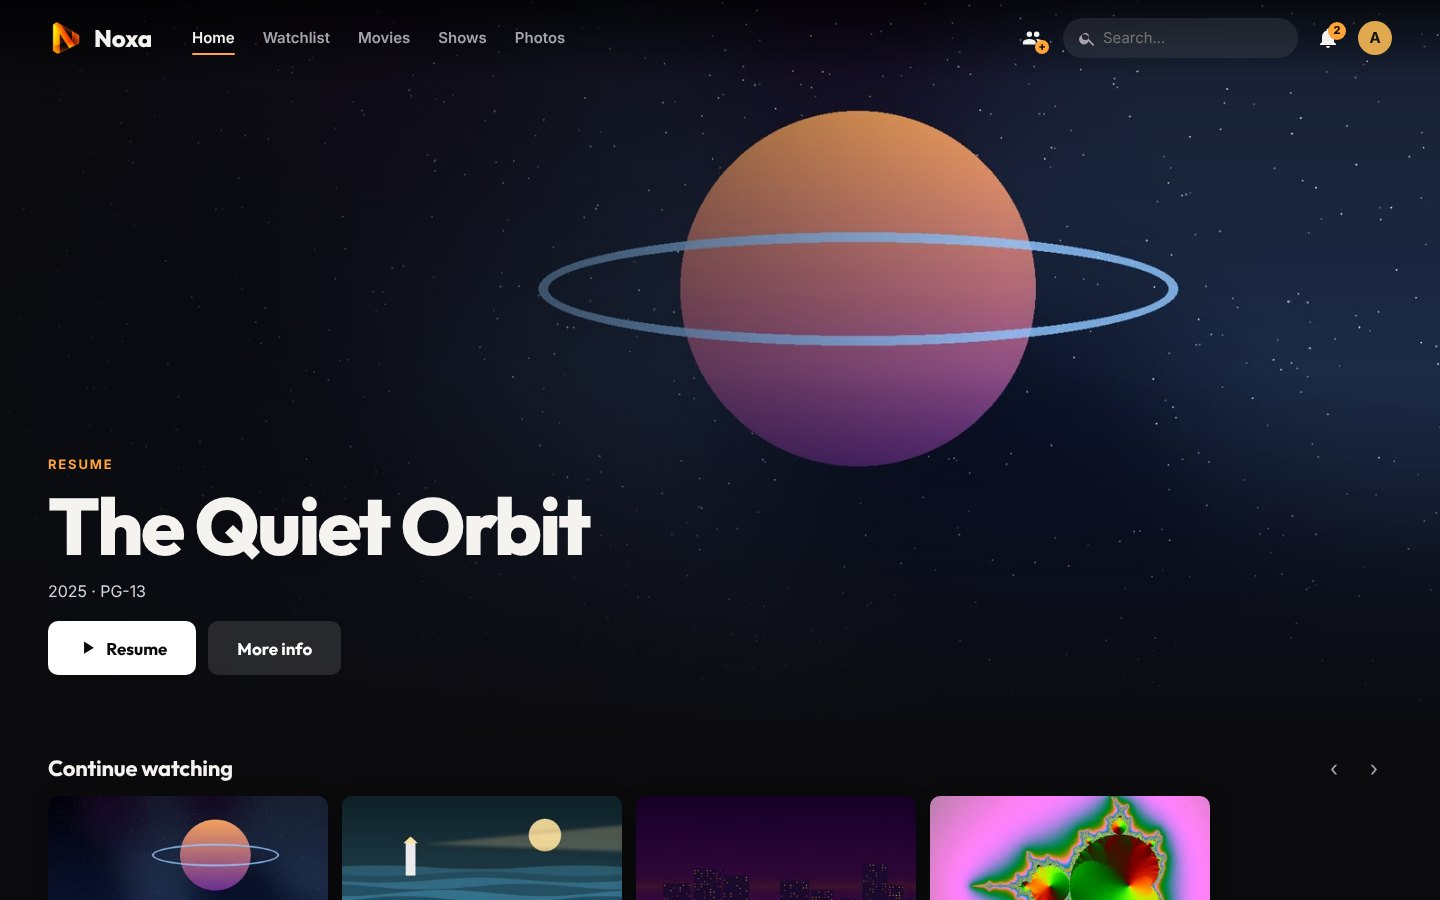
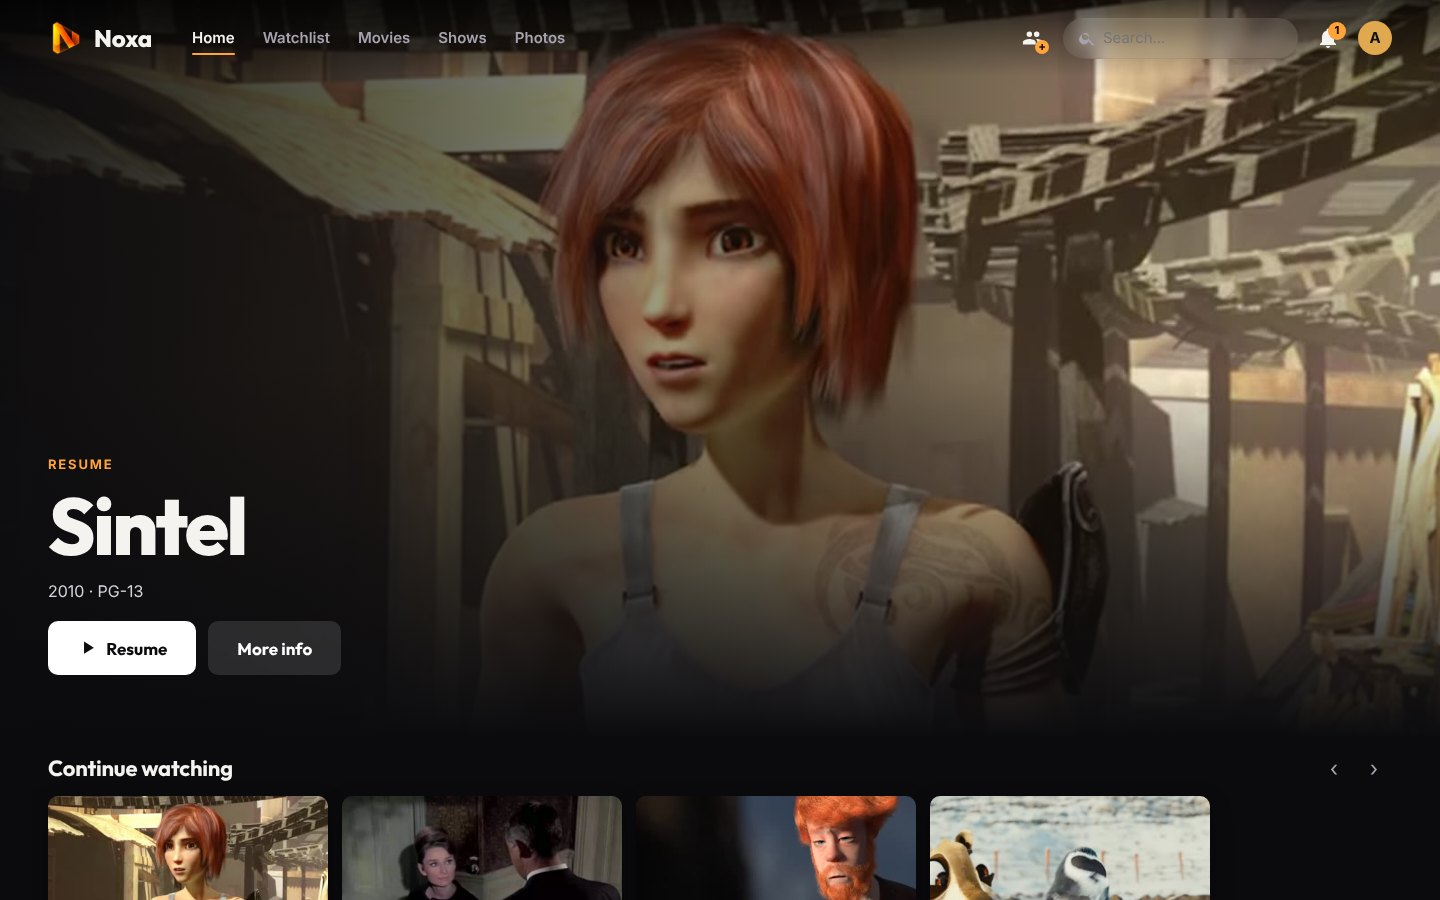
Docs: screenshots with real free films and photos
The documentation screenshots now show real, freely licensed works instead
of generated posters and videos:

- Blender Foundation open movies (Creative Commons): Big Buck Bunny, Sintel,
  Tears of Steel, Elephants Dream, Cosmos Laundromat, Spring, Caminandes
- Public domain films: Night of the Living Dead, Nosferatu, Charade,
  His Girl Friday, The General
- CC0 photos from Wikimedia Commons, in five albums

tools/screenshots/free_library.py builds the library from those downloads
(listed with their licences in free_titles.json): Kodi-style .nfo files,
backdrops taken from the films, Blender films upscaled to 1080p, landscape
artwork turned into 2:3 posters. take.py uses the new titles. The README
credits every work and its licence; docs/development.md explains the steps.

Also fixes the Photos page header, which read "0 photos" at the root of
the Albums tab when the library has only albums: it now shows the number
of albums.

Claude-Session: https://claude.ai/code/session_019WZqhqxppt6MzdJHtpPNrn

diff --git a/static/js/views/photos.js b/static/js/views/photos.js
@@ -106,7 +106,9 @@ async function browse(main, ctx, o) {
       total = r.total;
       start += r.photos.length;
       if (!r.photos.length) total = start;
-      count.textContent = plural(total, '{n} photo', '{n} photos');
+      // root of the Albums tab: no loose photos, so count the albums rather than show "0 photos"
+      if (start === r.photos.length && r.albums.length && !total) count.textContent = plural(r.albums.length, '{n} album', '{n} albums');
+      else count.textContent = plural(total, '{n} photo', '{n} photos');
       addPhotos(r.photos);
       if (!total && !r.albums.length && start === 0) {
         content.replaceChildren(h('div.empty', o.view === 'favorites' ? tr('Aucun favori : l’étoile de la visionneuse ajoute une photo ici.') : tr('Aucune photo ici.')));

diff --git a/static/js/i18n/en.js b/static/js/i18n/en.js
@@ -1293,6 +1293,8 @@ export default {
   "dlna upnp téléviseur smart tv samsung lg sony console xbox ps5 box réseau local serveur multimédia": "dlna upnp tv smart tv samsung lg sony console xbox ps5 box local network media server",
   "{n} photo": "{n} photo",
   "{n} photos": "{n} photos",
+  "{n} album": "{n} album",
+  "{n} albums": "{n} albums",
   "{p1} photos · {p2} albums": "{p1} photos · {p2} albums",
   "Automatique (selon le débit)": "Automatic (based on bandwidth)",
   "Automatique ({q})": "Automatic ({q})",

diff --git a/tools/screenshots/take.py b/tools/screenshots/take.py
@@ -33,9 +33,11 @@ media, out = sys.argv[1], sys.argv[2]
 os.makedirs(out, exist_ok=True)
 work = tempfile.mkdtemp()
 webm = os.path.join(work, "player.webm")
-subprocess.run(["ffmpeg", "-loglevel", "error", "-y", "-f", "lavfi", "-t", "20", "-i",
-                "mandelbrot=s=1280x720:r=24:maxiter=400:start_scale=1.2:end_scale=0.3", "-c:v", "libvpx-vp9",
-                "-b:v", "1M", "-deadline", "realtime", "-cpu-used", "8", webm], check=True)
+# the player screenshot shows a real frame of the film (Chromium here cannot decode H.264: a short VP9 clip)
+PLAYER = "Tears of Steel"
+clip_src = os.path.join(media, "Movies", "Tears of Steel (2012)", "Tears of Steel (2012).mkv")
+subprocess.run(["ffmpeg", "-loglevel", "error", "-y", "-ss", "200", "-t", "20", "-i", clip_src, "-an", "-vf", "scale=1280:-2",
+                "-c:v", "libvpx-vp9", "-b:v", "1500k", "-deadline", "realtime", "-cpu-used", "8", webm], check=True)
 
 ctx = Ctx(os.path.join(work, "data"), STATIC)
 server = Server(("127.0.0.1", 0), make_handler(build_app(ctx)))
@@ -47,7 +49,10 @@ st, r = admin.call("POST", "/api/setup", {"username": "alex", "password": "demo-
                                           "language": "en"}, headers={"X-Setup-Code": ctx.setup_code})
 assert st == 200, r
 libs = {}
-for name, kind, sub in (("Movies", "movie", "Movies"), ("Shows", "show", "Shows"), ("Photos", "photo", "Photos")):
+LIBS = [("Movies", "movie", "Movies"), ("Shows", "show", "Shows")]
+if os.path.isdir(os.path.join(media, "Photos")):
+    LIBS.append(("Photos", "photo", "Photos"))
+for name, kind, sub in LIBS:
     st, r = admin.call("POST", "/api/admin/libraries", {"name": name, "kind": kind, "paths": [os.path.join(media, sub)]})
     assert st == 200, r
     libs[name] = r.get("id") or r.get("library", {}).get("id")
@@ -63,21 +68,21 @@ for name, display in (("sam", "Sam"), ("kids", "Kids")):
 db = ctx.db
 # the scan and the .nfo metadata finish in the background: wait until every demo title is there
 for _ in range(300):
-    if (db.scalar("SELECT COUNT(*) FROM items WHERE type='movie'") >= 12
-            and db.scalar("SELECT COUNT(*) FROM items WHERE type='show' AND title IN "
-                          "('Harbor Lights', 'Signal Lost', 'Kitchen Atlas')") == 3):
+    if (db.scalar("SELECT COUNT(*) FROM items WHERE type='movie'") >= 11
+            and db.scalar("SELECT COUNT(*) FROM items WHERE type='episode'") >= 3
+            and ("Photos" not in libs or db.scalar("SELECT COUNT(*) FROM items WHERE type='photo'") >= 19)):
         break
     time.sleep(1)
 movies = db.all("SELECT id, title, duration_ms FROM items WHERE type='movie' ORDER BY title")
 by_title = {m["title"]: m for m in movies}
-episodes = db.all("SELECT id, title, duration_ms, parent_id FROM items WHERE type='episode' ORDER BY id")
+episodes = db.all("SELECT id, title, duration_ms, parent_id FROM items WHERE type='episode' ORDER BY title")
 shows = db.all("SELECT id, title FROM items WHERE type='show' ORDER BY title")
 show_by_title = {s["title"]: s for s in shows}
 uid = db.scalar("SELECT id FROM users WHERE username='alex'")
 now = int(time.time())
 
 # continue watching: a few movies and an episode in progress
-for title, frac in (("The Quiet Orbit", 0.42), ("Glass Tide", 0.67), ("Velvet Circuit", 0.18)):
+for title, frac in (("Sintel", 0.42), ("Charade", 0.31), ("Cosmos Laundromat", 0.55)):
     m = by_title[title]
     admin.call("POST", "/api/progress", {"id": str(m["id"]), "position": int(m["duration_ms"] * frac),
                                          "duration": m["duration_ms"], "state": "stopped"})
@@ -87,11 +92,11 @@ for e in episodes[:2]:
 e = episodes[2]
 admin.call("POST", "/api/progress", {"id": str(e["id"]), "position": int(e["duration_ms"] * 0.3),
                                      "duration": e["duration_ms"], "state": "stopped"})
-for t in ("Halcyon Drift", "Low Light Requiem", "Paper Lanterns"):
+for t in ("Spring", "Nosferatu", "His Girl Friday"):
     db.run("INSERT OR IGNORE INTO watchlist(user_id, item_id, added_at) VALUES(?,?,?)", (uid, by_title[t]["id"], now))
 db.run("INSERT OR IGNORE INTO watchlist(user_id, item_id, added_at) VALUES(?,?,?)",
-       (uid, show_by_title["Signal Lost"]["id"], now))
-for t, v in (("Northbound Static", 5), ("Salt & Ember", 4), ("Pinewatch", 3)):
+       (uid, show_by_title["Caminandes"]["id"], now))
+for t, v in (("Big Buck Bunny", 5), ("The General", 5), ("Night of the Living Dead", 4)):
     db.run("INSERT OR REPLACE INTO ratings(user_id, item_id, value, updated_at) VALUES(?,?,?,?)",
            (uid, by_title[t]["id"], v, now))
 
@@ -100,8 +105,8 @@ usb = os.path.join(work, "usb-disk")
 os.makedirs(usb)
 st, r = admin.call("POST", "/api/admin/cold/stores", {"kind": "local", "name": "USB disk", "conf": {"path": usb}})
 assert st == 200, r
-admin.call("POST", "/api/admin/cold/archive", {"ids": [by_title[t]["id"] for t in ("Pinewatch", "Paper Lanterns",
-                                                                                   "Seven Summers South")],
+admin.call("POST", "/api/admin/cold/archive", {"ids": [by_title[t]["id"] for t in ("Elephants Dream", "Spring",
+                                                                                   "Big Buck Bunny")],
                                                "store": r["id"]})
 for _ in range(600):
     st, c = admin.call("GET", "/api/admin/cold")
@@ -184,21 +189,22 @@ with sync_playwright() as pw:
     save(page, "home.jpg")
     go(page, f"/#/library/{libs['Movies']}", ".grid .card")
     save(page, "library.jpg")
-    go(page, f"/#/item/{by_title['The Quiet Orbit']['id']}", ".detail-actions", 1200)
+    go(page, f"/#/item/{by_title['Sintel']['id']}", ".detail-actions", 1200)
     save(page, "movie.jpg")
-    go(page, f"/#/item/{show_by_title['Harbor Lights']['id']}", ".episode", 1500)
+    go(page, f"/#/item/{show_by_title['Caminandes']['id']}", ".episode", 1500)
     save(page, "show.jpg", full=True, clip={"x": 0, "y": 0, "width": 1440, "height": 1400})
 
-    go(page, f"/#/play/{by_title['Northbound Static']['id']}", "video", 6000)
+    go(page, f"/#/play/{by_title[PLAYER]['id']}", "video", 6000)
     page.mouse.move(700, 500)
     page.mouse.move(720, 760)
     page.wait_for_timeout(800)
     save(page, "player.jpg")
 
-    go(page, f"/#/library/{libs['Photos']}", None, 1000)
-    page.locator("text=All photos").first.click()
-    settle(page, 1500)
-    save(page, "photos.jpg")
+    if "Photos" in libs:
+        go(page, f"/#/library/{libs['Photos']}", None, 1000)
+        page.locator("text=Albums").first.click()
+        settle(page, 1500)
+        save(page, "photos.jpg")
 
     for name, route, wait in (("settings-dashboard.jpg", "/#/admin/dashboard", 1500),
                               ("settings-libraries.jpg", "/#/admin/libraries", 800),
@@ -240,7 +246,7 @@ with sync_playwright() as pw:
     p2.click("text=Alex")
     p2.wait_for_timeout(800)
     shots = []
-    for route, sel in (("/#/", ".hero-title"), (f"/#/item/{show_by_title['Signal Lost']['id']}", ".episode"),
+    for route, sel in (("/#/", ".hero-title"), (f"/#/item/{by_title['Sintel']['id']}", ".detail-actions"),
                        (f"/#/library/{libs['Movies']}", ".grid .card")):
         go(p2, route, sel, 1200)
         shots.append(Image.open(io.BytesIO(p2.screenshot())).convert("RGB"))

diff --git a/tools/screenshots/free_library.py b/tools/screenshots/free_library.py
@@ -1,0 +1,150 @@
+"""Builds the documentation demo library from free films: Blender Foundation open movies (Creative Commons)
+and public domain classics, downloaded from Wikimedia Commons.
+
+python3 tools/screenshots/free_library.py <downloads_folder> <posters_folder> <library_folder> [<photos_folder>]
+
+- <downloads_folder>: the 480p WebM versions from Wikimedia Commons, named "<file>.webm" as in free_titles.json
+- <posters_folder>: one poster per title, named "<title>.jpg" (or .png)
+- <library_folder>: receives Movies/ and Shows/, laid out like a real library, with Kodi-style .nfo files
+- <photos_folder> (optional): the CC0 photos listed in free_titles.json, named as on Commons; they are copied
+  into Photos/<album>/ and dated (file date) when they were taken, since Commons thumbnails drop the EXIF data
+
+The Blender films are re-encoded to 1080p H.264 (they were made in HD; the 480p copies only save download time).
+Classics stay as they are. Backdrops are taken from a frame of each film.
+"""
+import json
+import os
+import shutil
+import time
+import subprocess
+import sys
+from xml.sax.saxutils import escape
+
+HERE = os.path.dirname(os.path.abspath(__file__))
+
+
+def ff(*args):
+    subprocess.run(["ffmpeg", "-loglevel", "error", "-y", *args], check=True)
+
+
+def duration(path):
+    out = subprocess.run(["ffprobe", "-v", "error", "-show_entries", "format=duration", "-of", "csv=p=0", path],
+                         capture_output=True, text=True, check=True).stdout
+    return float(out.strip() or 0)
+
+
+def video(src, dst, upscale):
+    if os.path.exists(dst):
+        return
+    tmp = dst + ".part.mkv"
+    if upscale:
+        ff("-i", src, "-map", "0:v:0", "-map", "0:a?", "-vf", "scale=-2:1080:flags=lanczos,format=yuv420p",
+           "-c:v", "libx264", "-preset", "veryfast", "-crf", "26", "-c:a", "aac", "-b:a", "160k",
+           "-metadata:s:a", "title=", tmp)  # the source title ("AC3 5.1 @ 640 Kbps") no longer matches
+    else:
+        ff("-i", src, "-map", "0", "-c", "copy", tmp)
+    os.replace(tmp, dst)
+
+
+def backdrop(src, dst, at):
+    if not os.path.exists(dst):
+        ff("-ss", f"{at:.1f}", "-i", src, "-frames:v", "1", "-vf", "scale=1920:-2:flags=lanczos", "-q:v", "3", dst)
+
+
+def landscape(path):
+    out = subprocess.run(["ffprobe", "-v", "error", "-select_streams", "v:0", "-show_entries", "stream=width,height",
+                          "-of", "csv=p=0", path], capture_output=True, text=True, check=True).stdout
+    w, h = (int(x) for x in out.strip().split(",")[:2])
+    return w > h
+
+
+def poster(posters, title, dst):
+    for ext in (".jpg", ".jpeg", ".png"):
+        p = os.path.join(posters, title + ext)
+        if os.path.exists(p):
+            # Landscape artwork: centre it on a blurred copy of itself, so the 2:3 poster keeps the whole title
+            vf = ("scale=600:-2:flags=lanczos" if not landscape(p) else
+                  "split[a][b];[a]scale=600:900:force_original_aspect_ratio=increase,crop=600:900,boxblur=20,eq=brightness=-0.25[bg];"
+                  "[b]scale=600:-2:flags=lanczos[fg];[bg][fg]overlay=0:(H-h)/2")
+            ff("-i", p, "-filter_complex" if landscape(p) else "-vf", vf, "-q:v", "3", dst)
+            return True
+    return False
+
+
+def nfo(path, root, fields):
+    lines = ["<?xml version='1.0' encoding='utf-8'?>", f"<{root}>"]
+    for k, v in fields:
+        if isinstance(v, dict):
+            lines.append(f"  <{k}>" + "".join(f"<{a}>{escape(str(b))}</{a}>" for a, b in v.items()) + f"</{k}>")
+        elif v not in (None, ""):
+            lines.append(f"  <{k}>{escape(str(v))}</{k}>")
+    lines.append(f"</{root}>")
+    with open(path, "w") as f:
+        f.write("\n".join(lines) + "\n")
+
+
+def photos(src, root, items):
+    for p in items:
+        f = os.path.join(src, p["file"])
+        if not os.path.exists(f):
+            print("missing:", f)
+            continue
+        d = os.path.join(root, "Photos", p["album"])
+        os.makedirs(d, exist_ok=True)
+        dst = os.path.join(d, p["file"])
+        shutil.copyfile(f, dst)
+        t = time.mktime(time.strptime(p["date"], "%Y-%m-%d %H:%M:%S"))
+        os.utime(dst, (t, t))
+    print("photos:", len(items), flush=True)
+
+
+def build(raw, posters, root, photo_src=None):
+    data = json.load(open(os.path.join(HERE, "free_titles.json")))
+    for m in data["movies"]:
+        src = os.path.join(raw, m["file"] + ".webm")
+        if not os.path.exists(src):
+            print("missing:", src)
+            continue
+        name = f"{m['title']} ({m['year']})"
+        d = os.path.join(root, "Movies", name)
+        os.makedirs(d, exist_ok=True)
+        dst = os.path.join(d, name + ".mkv")
+        video(src, dst, m.get("upscale"))
+        backdrop(src, os.path.join(d, "fanart.jpg"), duration(src) * 0.3)
+        if not poster(posters, m["title"], os.path.join(d, "poster.jpg")):
+            print("no poster:", m["title"])
+        fields = [("title", m["title"]), ("year", m["year"]), ("plot", m["plot"]), ("mpaa", m.get("mpaa")),
+                  ("studio", m.get("studio"))]
+        fields += [("genre", g) for g in m["genres"]] + [("director", p) for p in m.get("directors", [])]
+        nfo(os.path.join(d, "movie.nfo"), "movie", fields)
+        print("movie:", name, flush=True)
+    for s in data["shows"]:
+        d = os.path.join(root, "Shows", f"{s['title']} ({s['year']})")
+        sd = os.path.join(d, "Season 01")
+        os.makedirs(sd, exist_ok=True)
+        first = None
+        for n, e in enumerate(s["episodes"], 1):
+            src = os.path.join(raw, e["file"] + ".webm")
+            if not os.path.exists(src):
+                print("missing:", src)
+                continue
+            first = first or src
+            base = os.path.join(sd, f"{s['title']} - S01E{n:02d} - {e['title']}")
+            video(src, base + ".mkv", s.get("upscale"))
+            nfo(base + ".nfo", "episodedetails", [("title", e["title"]), ("season", 1), ("episode", n),
+                                                  ("plot", e["plot"]), ("aired", e["aired"])])
+        if first:
+            backdrop(first, os.path.join(d, "fanart.jpg"), duration(first) * 0.4)
+        if not poster(posters, s["title"], os.path.join(d, "poster.jpg")):
+            print("no poster:", s["title"])
+        fields = [("title", s["title"]), ("year", s["year"]), ("plot", s["plot"]), ("mpaa", s.get("mpaa")),
+                  ("studio", s.get("studio")), ("premiered", s["episodes"][0]["aired"])]
+        fields += [("genre", g) for g in s["genres"]]
+        nfo(os.path.join(d, "tvshow.nfo"), "tvshow", fields)
+        print("show:", s["title"], flush=True)
+    if photo_src:
+        photos(photo_src, root, data.get("photos", []))
+
+
+if __name__ == "__main__":
+    build(*sys.argv[1:5])

diff --git a/docs/development.md b/docs/development.md
@@ -105,12 +105,17 @@ The Docker image is published as `ghcr.io/xenix13/noxa` and, for existing instal
 
 ## Documentation screenshots
 
-The images in `docs/images` come from a generated demo library with fictional titles:
+The images in `docs/images` come from a demo library of free films and photos from Wikimedia Commons: Blender Foundation open movies (Creative Commons), public domain classics and CC0 photos. The list, with licences, is in `tools/screenshots/free_titles.json`.
+
+1. Download each video from its Commons page (the 480p WebM transcode is enough) as `<file>.webm`, each poster as `<title>.jpg` or `.png`, and each photo under its Commons file name.
+2. Build the library, then take the screenshots:
 
 ```bash
-python3 tools/screenshots/demo_library.py /srv/media        # posters, .nfo files and videos (~4 GB)
+python3 tools/screenshots/free_library.py ~/dl/videos ~/dl/posters /srv/media ~/dl/photos  # Movies/, Shows/, Photos/ with .nfo files
 python3 tools/screenshots/take.py /srv/media docs/images     # starts a throwaway server and takes the screenshots
 ```
+
+The Blender films are upscaled to 1080p (they were made in HD); landscape artwork becomes a 2:3 poster over a blurred copy of itself. The older `demo_library.py` builds a fully generated library with fictional titles, handy when no network is available.
 
 Run `take.py` as a regular user (as root every folder looks writable and the Libraries page warns about it). Set `CHROMIUM=/path/to/chrome` if Playwright's own browser is not installed.
 

diff --git a/README.md b/README.md
@@ -146,7 +146,13 @@ Noxa builds on [ffmpeg](https://ffmpeg.org), [hls.js](https://github.com/video-d
 
 This product uses the TMDB API but is not endorsed or certified by [TMDB](https://www.themoviedb.org). Map tiles © [OpenStreetMap](https://www.openstreetmap.org/copyright) contributors.
 
-The demo titles in the screenshots are fictional; their posters and videos were generated for this documentation ([`tools/screenshots`](tools/screenshots)).
+The screenshots show free films from [Wikimedia Commons](https://commons.wikimedia.org) ([`tools/screenshots`](tools/screenshots)):
+
+- Blender Foundation open movies, © Blender Foundation, [www.blender.org](https://www.blender.org): *Big Buck Bunny*, *Sintel*, *Tears of Steel* and *Caminandes: Llama Drama* and *Llamigos* (CC BY 3.0), *Elephants Dream* (CC BY 2.5), *Cosmos Laundromat* and *Caminandes: Gran Dillama* (CC BY-SA 3.0), *Spring* (CC BY 4.0).
+- Public domain films: *Night of the Living Dead*, *Nosferatu*, *Charade*, *His Girl Friday*, *The General*.
+- Photos released under CC0 by their authors (mostly Wilfredor) on Wikimedia Commons.
+
+Plot summaries were written for this documentation; the screenshots change none of these works beyond resizing.
 
 ## License
 
